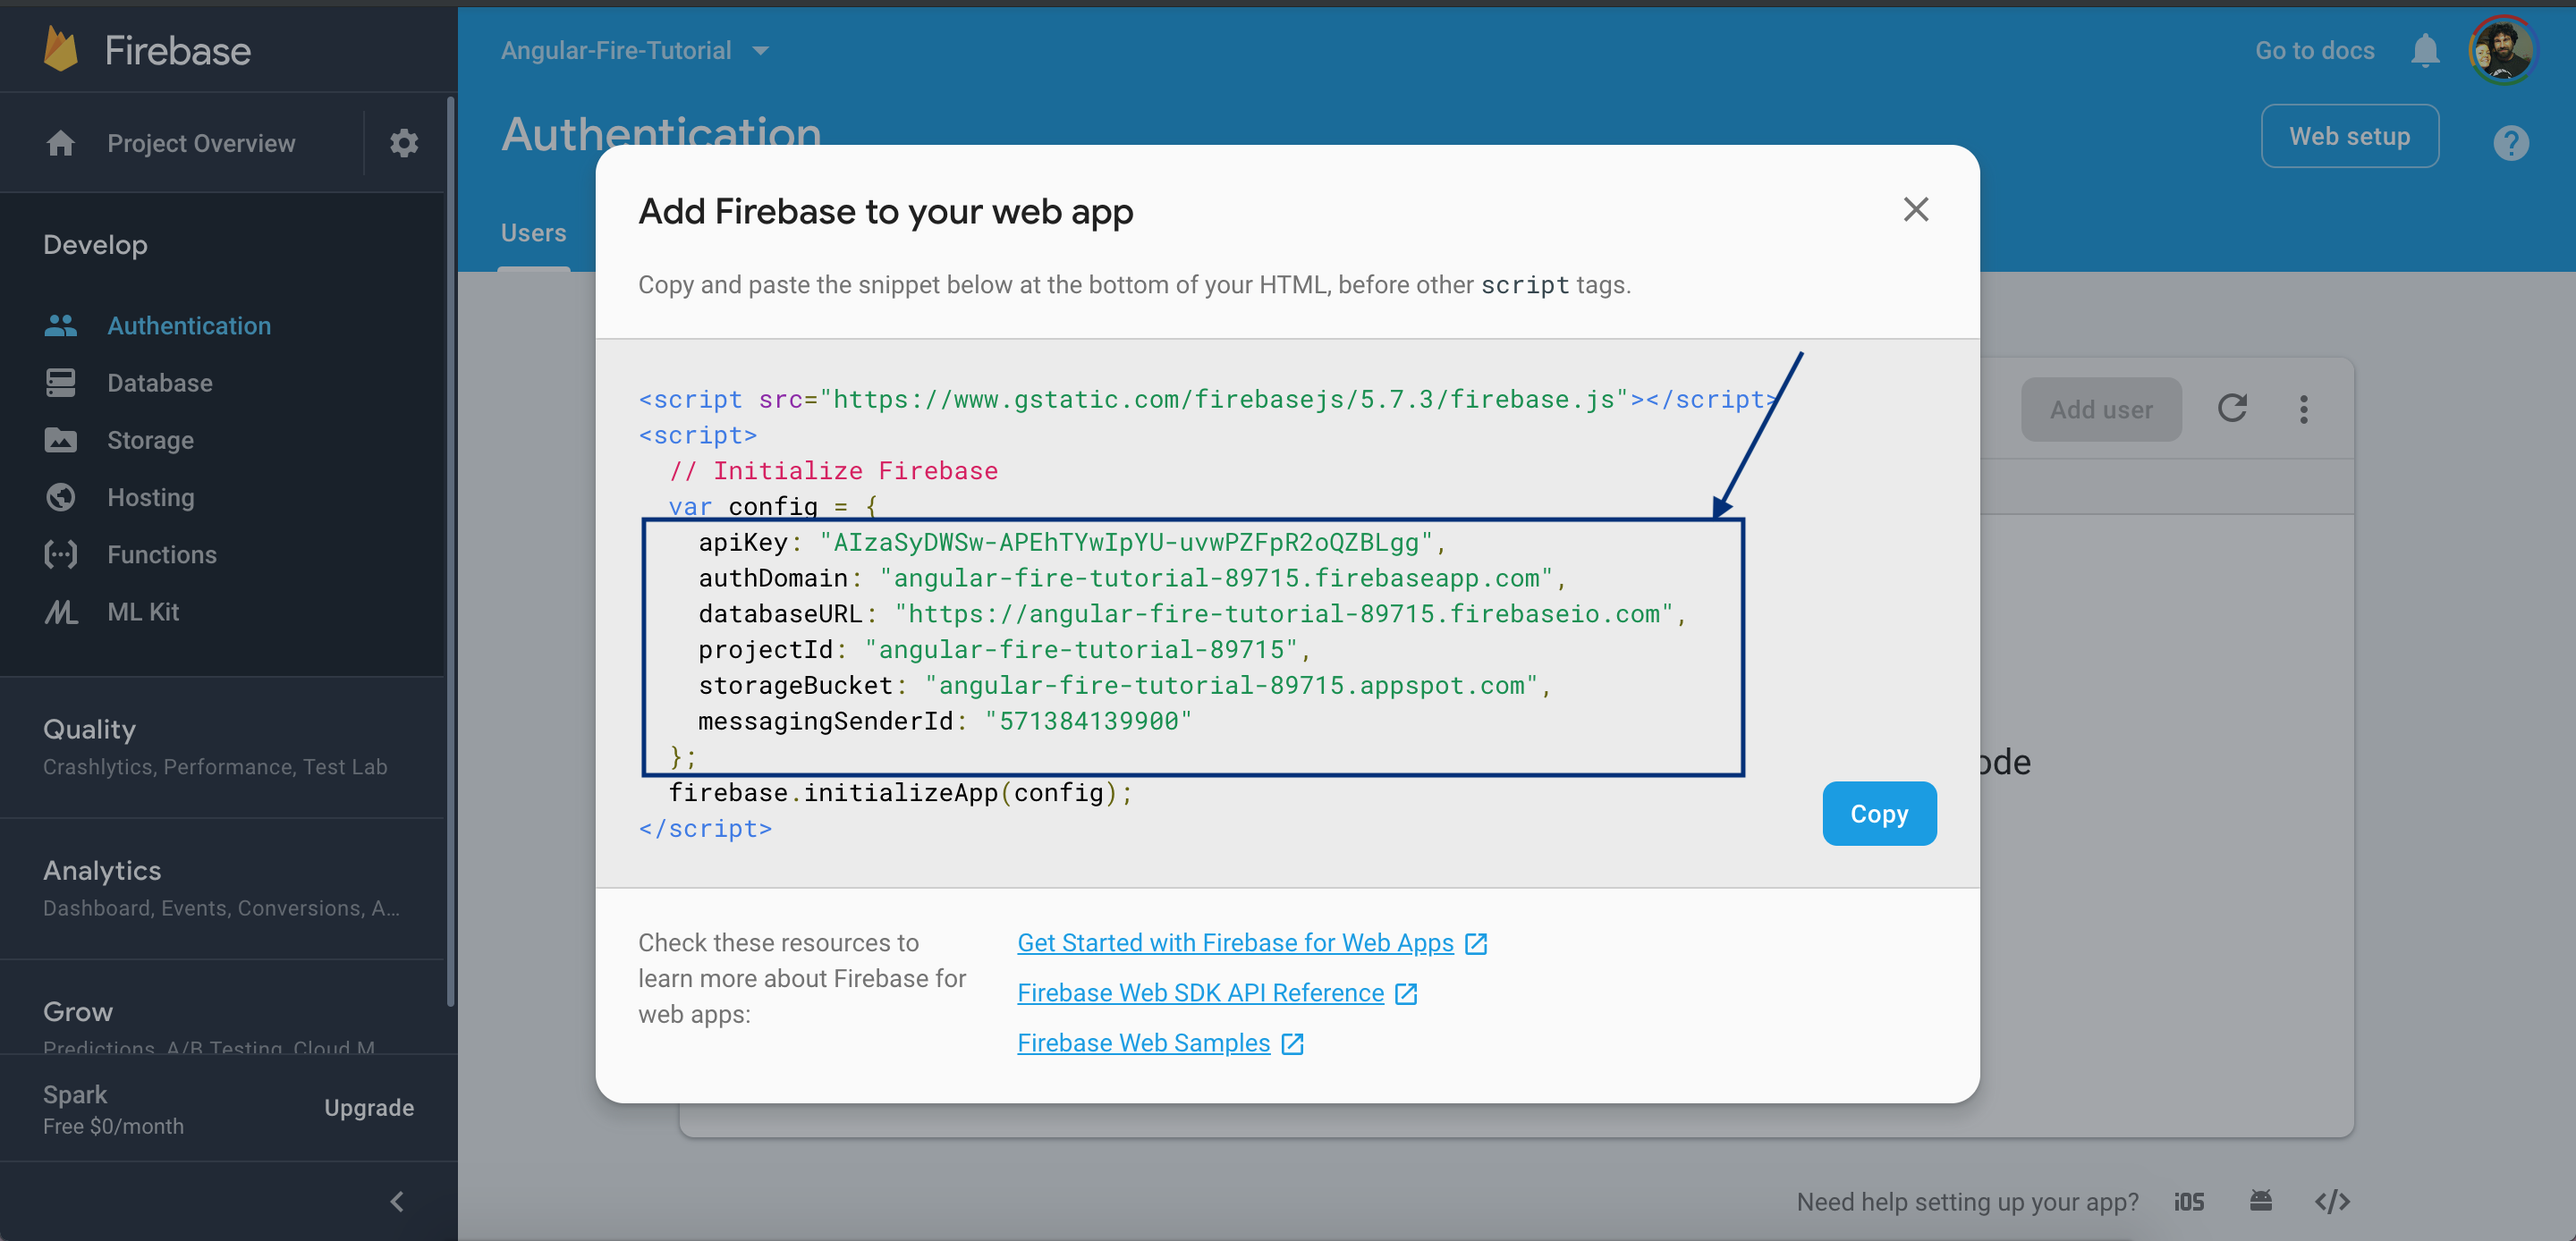
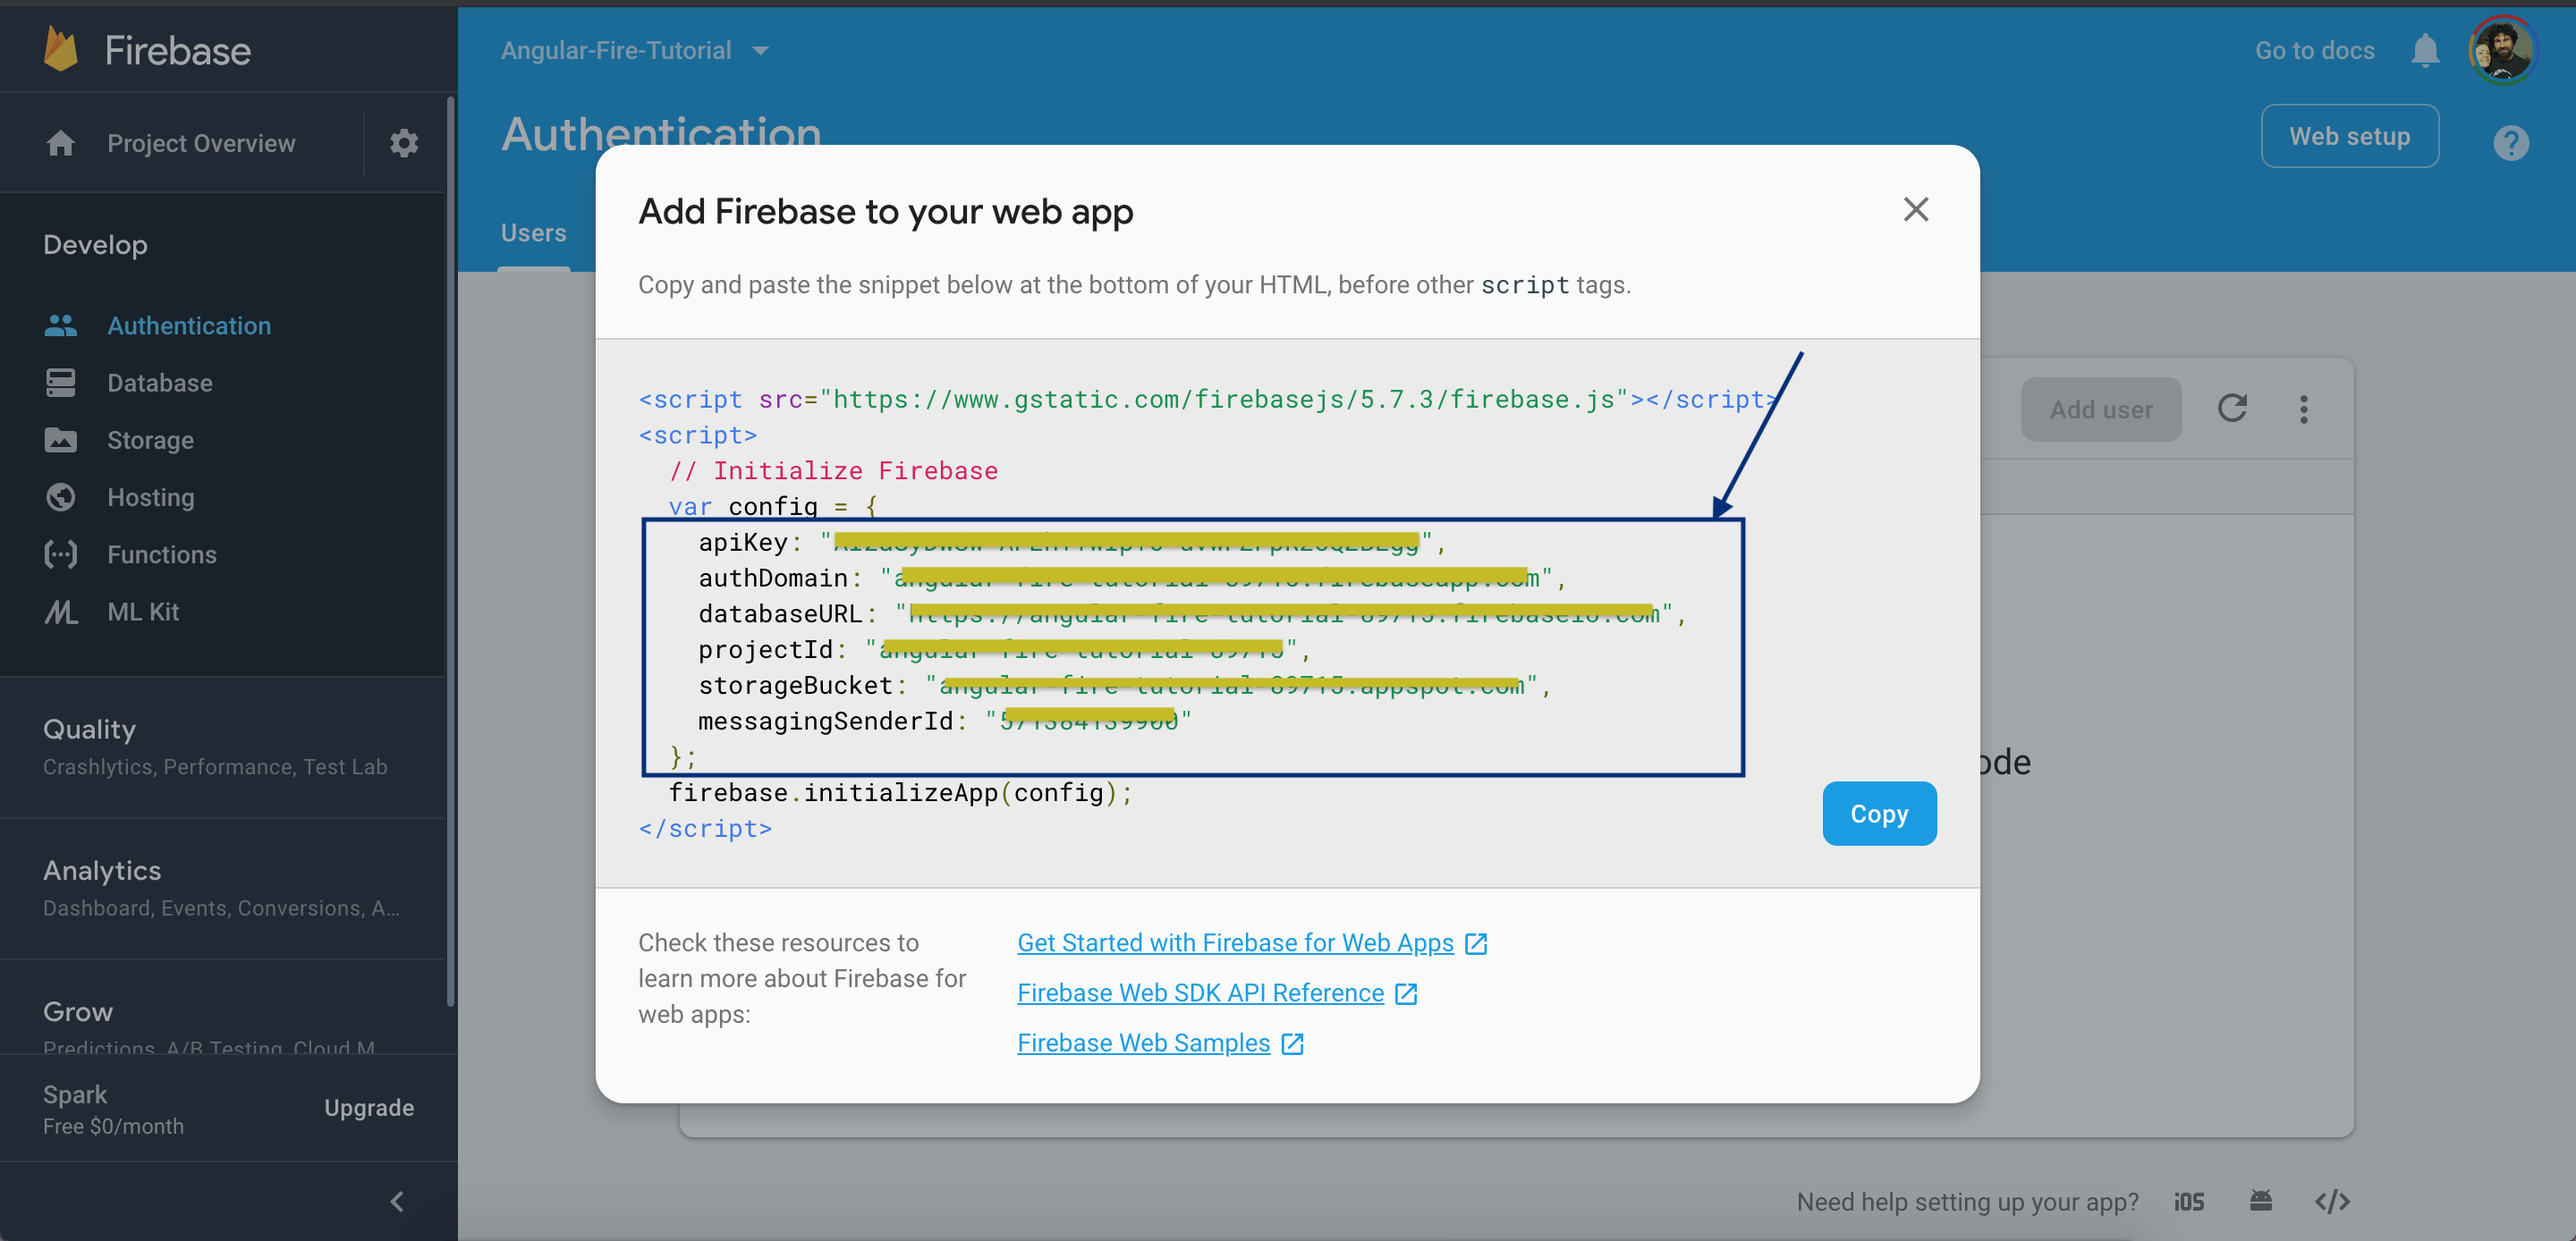
finished part 1

Changed region(s): [[0.3125, 0.4027, 0.6562, 0.5886]]

diff --git a/src/environments/environment.ts b/src/environments/environment.ts
@@ -5,12 +5,12 @@
 export const environment = {
   production: false,
   firebase: {
-    apiKey: 'AIzaSyDWSw-APEhTYwIpYU-uvwPZFpR2oQZBLgg',
-    authDomain: 'angular-fire-tutorial-89715.firebaseapp.com',
-    databaseURL: 'https://angular-fire-tutorial-89715.firebaseio.com',
-    projectId: 'angular-fire-tutorial-89715',
-    storageBucket: 'angular-fire-tutorial-89715.appspot.com',
-    messagingSenderId: '571384139900'
+    apiKey: '',
+    authDomain: '',
+    databaseURL: '',
+    projectId: '',
+    storageBucket: '',
+    messagingSenderId: ''
   }
 };
 
